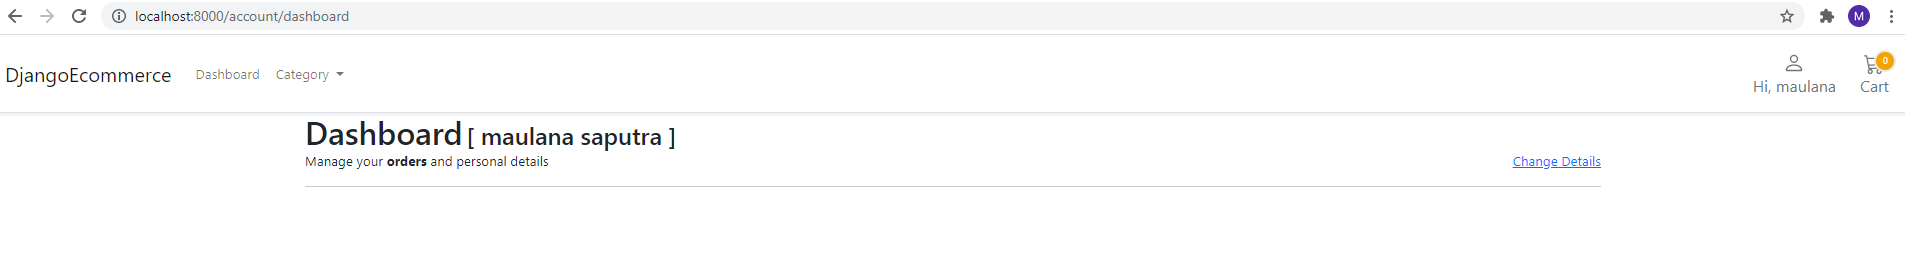
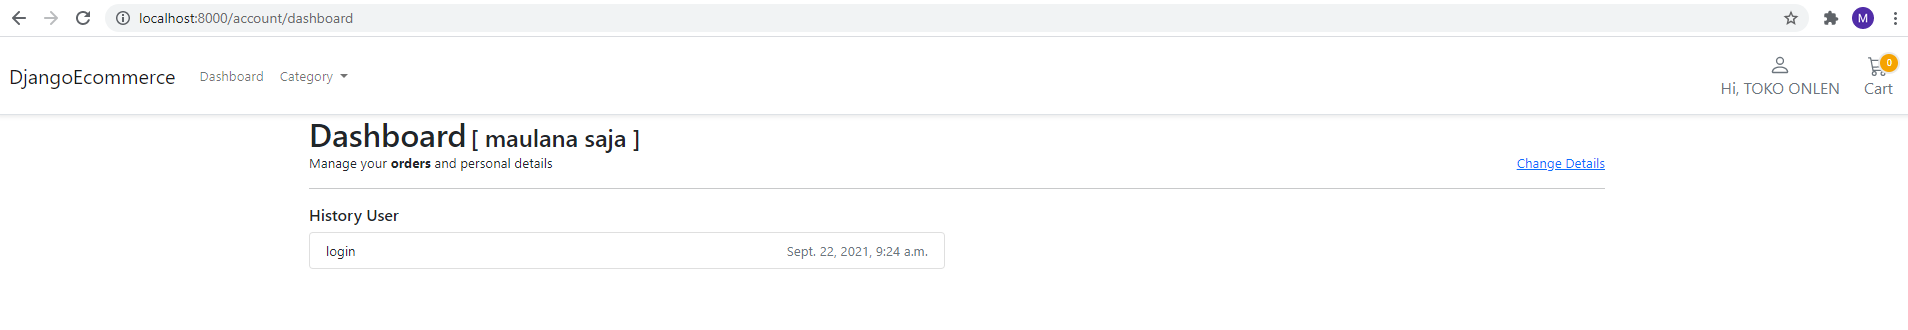
update for add history user

diff --git a/templates/account/dashboard.html b/templates/account/dashboard.html
@@ -15,5 +15,27 @@
             <div><a href="{% url 'account:edit' %}">Change Details</a></div>
         </div>
         <hr />
+        <div class="row">
+            <span class="h6">History User</span>
+        </div>
+        <div class="row">
+            <div class="col-6">
+                <ol class="list-group list-group-numbered">
+                {% for history in user.history.all %}
+                    <li class="list-group-item">
+                        <div class="d-flex bd-highlight">
+                            <div class="flex-grow-1 bd-highlight">
+                                <span>{{ history.history_change_reason }}</span>
+                            </div>
+                            <div class="bd-highlight">
+                                <span class="text-muted font-weight-normal">{{ history.history_date }}</span>
+                            </div>
+                        </div>
+                    </li>
+                    
+                {% endfor %}
+                </ol>
+            </div>
+        </div>
     </div>
 {% endblock %}

diff --git a/account/migrations/0004_historicaluserbase.py b/account/migrations/0004_historicaluserbase.py
@@ -1,0 +1,45 @@
+# Generated by Django 3.1.4 on 2021-09-22 09:06
+
+from django.conf import settings
+from django.db import migrations, models
+import django.db.models.deletion
+import simple_history.models
+import uuid
+
+
+class Migration(migrations.Migration):
+
+    dependencies = [
+        ('account', '0003_userbase_uuid'),
+    ]
+
+    operations = [
+        migrations.CreateModel(
+            name='HistoricalUserBase',
+            fields=[
+                ('id', models.IntegerField(auto_created=True, blank=True, db_index=True, verbose_name='ID')),
+                ('password', models.CharField(max_length=128, verbose_name='password')),
+                ('last_login', models.DateTimeField(blank=True, null=True, verbose_name='last login')),
+                ('is_superuser', models.BooleanField(default=False, help_text='Designates that this user has all permissions without explicitly assigning them.', verbose_name='superuser status')),
+                ('uuid', models.UUIDField(db_index=True, default=uuid.uuid4, editable=False)),
+                ('email', models.EmailField(db_index=True, max_length=254)),
+                ('user_name', models.CharField(db_index=True, max_length=150)),
+                ('full_name', models.CharField(blank=True, max_length=255)),
+                ('is_active', models.BooleanField(default=False)),
+                ('is_staff', models.BooleanField(default=False)),
+                ('created', models.DateTimeField(blank=True, editable=False)),
+                ('updated', models.DateTimeField(blank=True, editable=False)),
+                ('history_id', models.AutoField(primary_key=True, serialize=False)),
+                ('history_date', models.DateTimeField()),
+                ('history_change_reason', models.CharField(max_length=100, null=True)),
+                ('history_type', models.CharField(choices=[('+', 'Created'), ('~', 'Changed'), ('-', 'Deleted')], max_length=1)),
+                ('history_user', models.ForeignKey(null=True, on_delete=django.db.models.deletion.SET_NULL, related_name='+', to=settings.AUTH_USER_MODEL)),
+            ],
+            options={
+                'verbose_name': 'historical user base',
+                'ordering': ('-history_date', '-history_id'),
+                'get_latest_by': 'history_date',
+            },
+            bases=(simple_history.models.HistoricalChanges, models.Model),
+        ),
+    ]

diff --git a/account/views.py b/account/views.py
@@ -32,6 +32,8 @@ def account_edit(request):
             user = UserBase.objects.get(id=request.user.id)
             user.full_name = request.POST['full_name']
             
+            user._change_reason = 'edit account'
+            
             user.save()
     else:
         editForm = UserEditForm(instance=request.user)
@@ -45,6 +47,7 @@ def account_login(request):
         
         if loginForm.is_valid():
             user = authenticate(request, email=request.POST["email"], password=request.POST["password"])
+            user._change_reason = 'login'
             
             if user:
                 if user.is_superuser == True:
@@ -74,6 +77,8 @@ def account_register(request):
             user.email = registerForm.cleaned_data['email']
             user.set_password(registerForm.cleaned_data['password'])
             user.is_active = False
+            
+            user._change_reason = 'register'
             
             user.save()
             
@@ -106,6 +111,8 @@ def account_verify(request, uidb64, token):
     
     if user is not None and account_activation_token.check_token(user, token):
         user.is_active = True
+        user._change_reason = 'account verify'
+        
         user.save()
         
         login(request, user)

diff --git a/account/models.py b/account/models.py
@@ -1,6 +1,7 @@
 import uuid
 from django.contrib.auth.models import (AbstractBaseUser, BaseUserManager, PermissionsMixin)
 from django.db import models
+from simple_history.models import HistoricalRecords
 
 class CustomAccountManager(BaseUserManager):
     
@@ -46,6 +47,8 @@ class UserBase(AbstractBaseUser, PermissionsMixin):
     updated = models.DateTimeField(auto_now=True)
 
     objects = CustomAccountManager()
+    
+    history = HistoricalRecords()
 
     USERNAME_FIELD = 'email'
     REQUIRED_FIELDS = ['user_name']
@@ -55,6 +58,14 @@ class UserBase(AbstractBaseUser, PermissionsMixin):
     
     def __str__(self):
         return self.user_name
+    
+    def save_without_historical_record(self, *args, **kwargs):
+        self.skip_history_when_saving = True
+        try:
+            ret = self.save(*args, **kwargs)
+        finally:
+            del self.skip_history_when_saving
+        return ret
 
 class Shop(models.Model):
     user = models.OneToOneField(UserBase, related_name='shop', on_delete=models.CASCADE, primary_key=True)

diff --git a/core/settings.py b/core/settings.py
@@ -34,6 +34,7 @@ INSTALLED_APPS = [
     'django_seed',
     'rest_framework',
     'channels',
+    'simple_history',
     'store',
     'cart',
     'account',
@@ -48,6 +49,7 @@ MIDDLEWARE = [
     'django.contrib.auth.middleware.AuthenticationMiddleware',
     'django.contrib.messages.middleware.MessageMiddleware',
     'django.middleware.clickjacking.XFrameOptionsMiddleware',
+    'simple_history.middleware.HistoryRequestMiddleware',
 ]
 
 ROOT_URLCONF = 'core.urls'

diff --git a/README.md b/README.md
@@ -81,3 +81,4 @@ The Django-Ecommerce is an open-source project initiative and tutorial series bu
 - [customauth](https://kimmosaaskilahti.fi/blog/2021-04-18-django-custom-authentication/)
 - [comments](https://djangocentral.com/creating-comments-system-with-django/)
 - [chat](https://github.com/narrowfail/django-channels-chat)
+- [history](https://django-simple-history.readthedocs.io/en/latest/quick_start.html)
